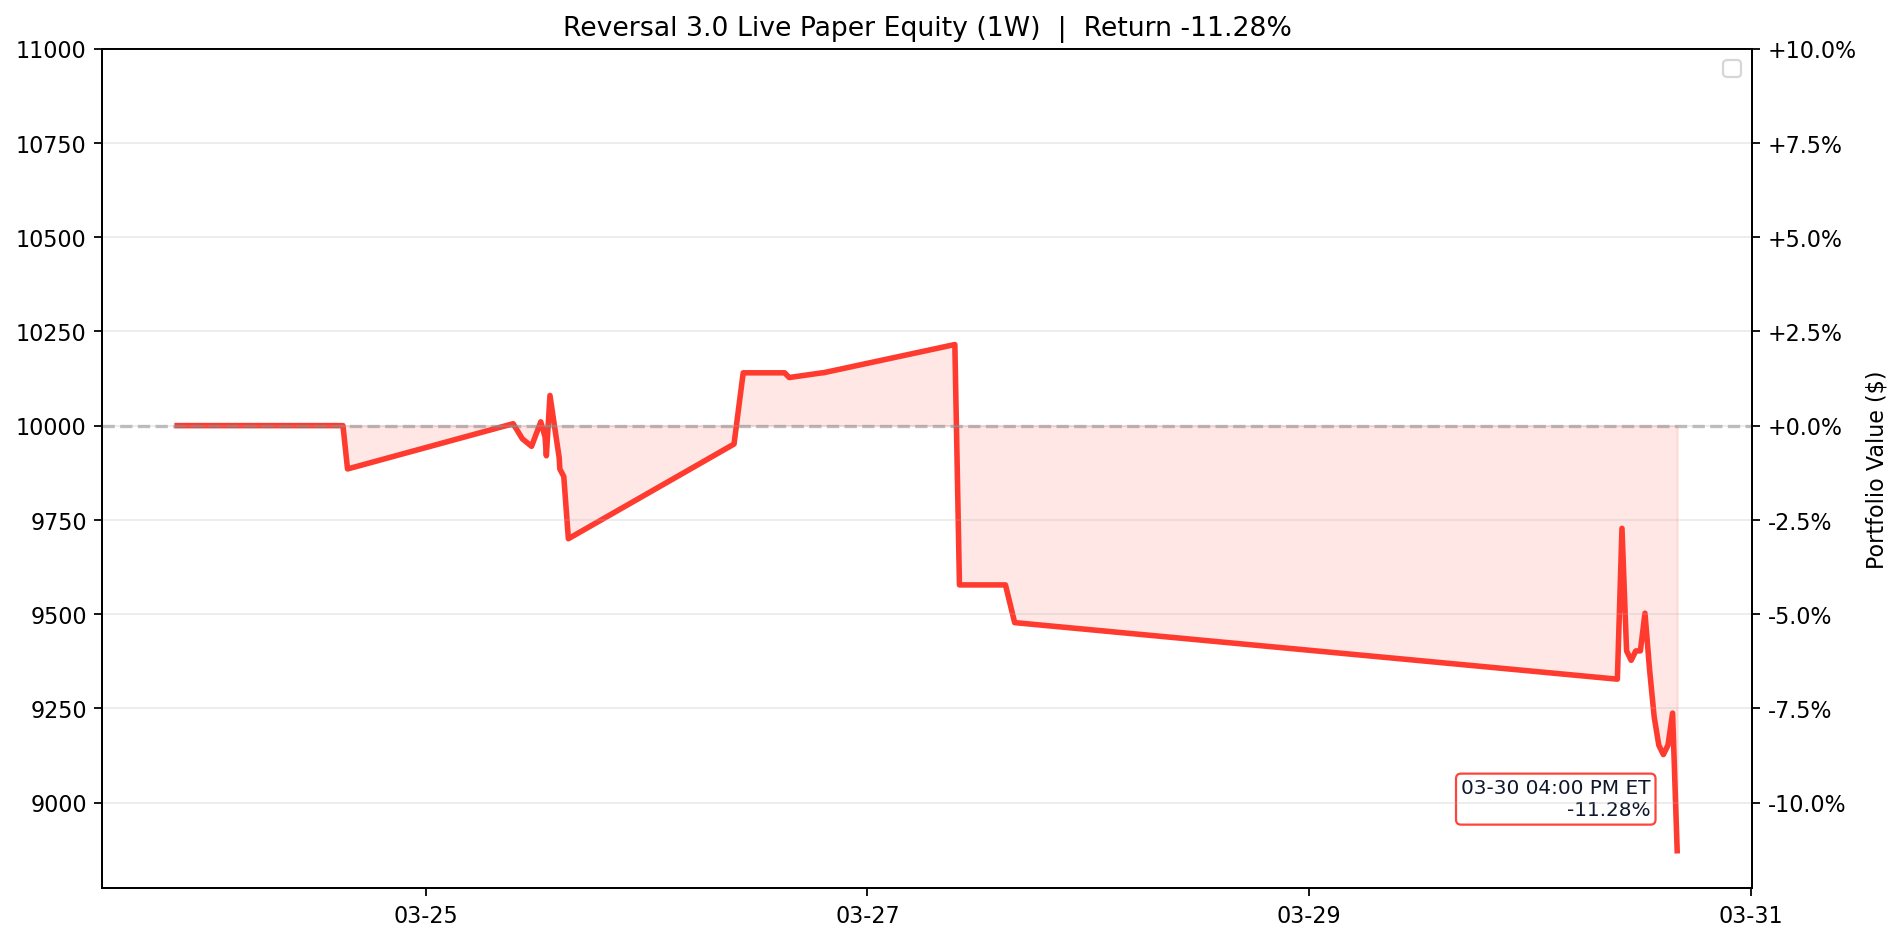
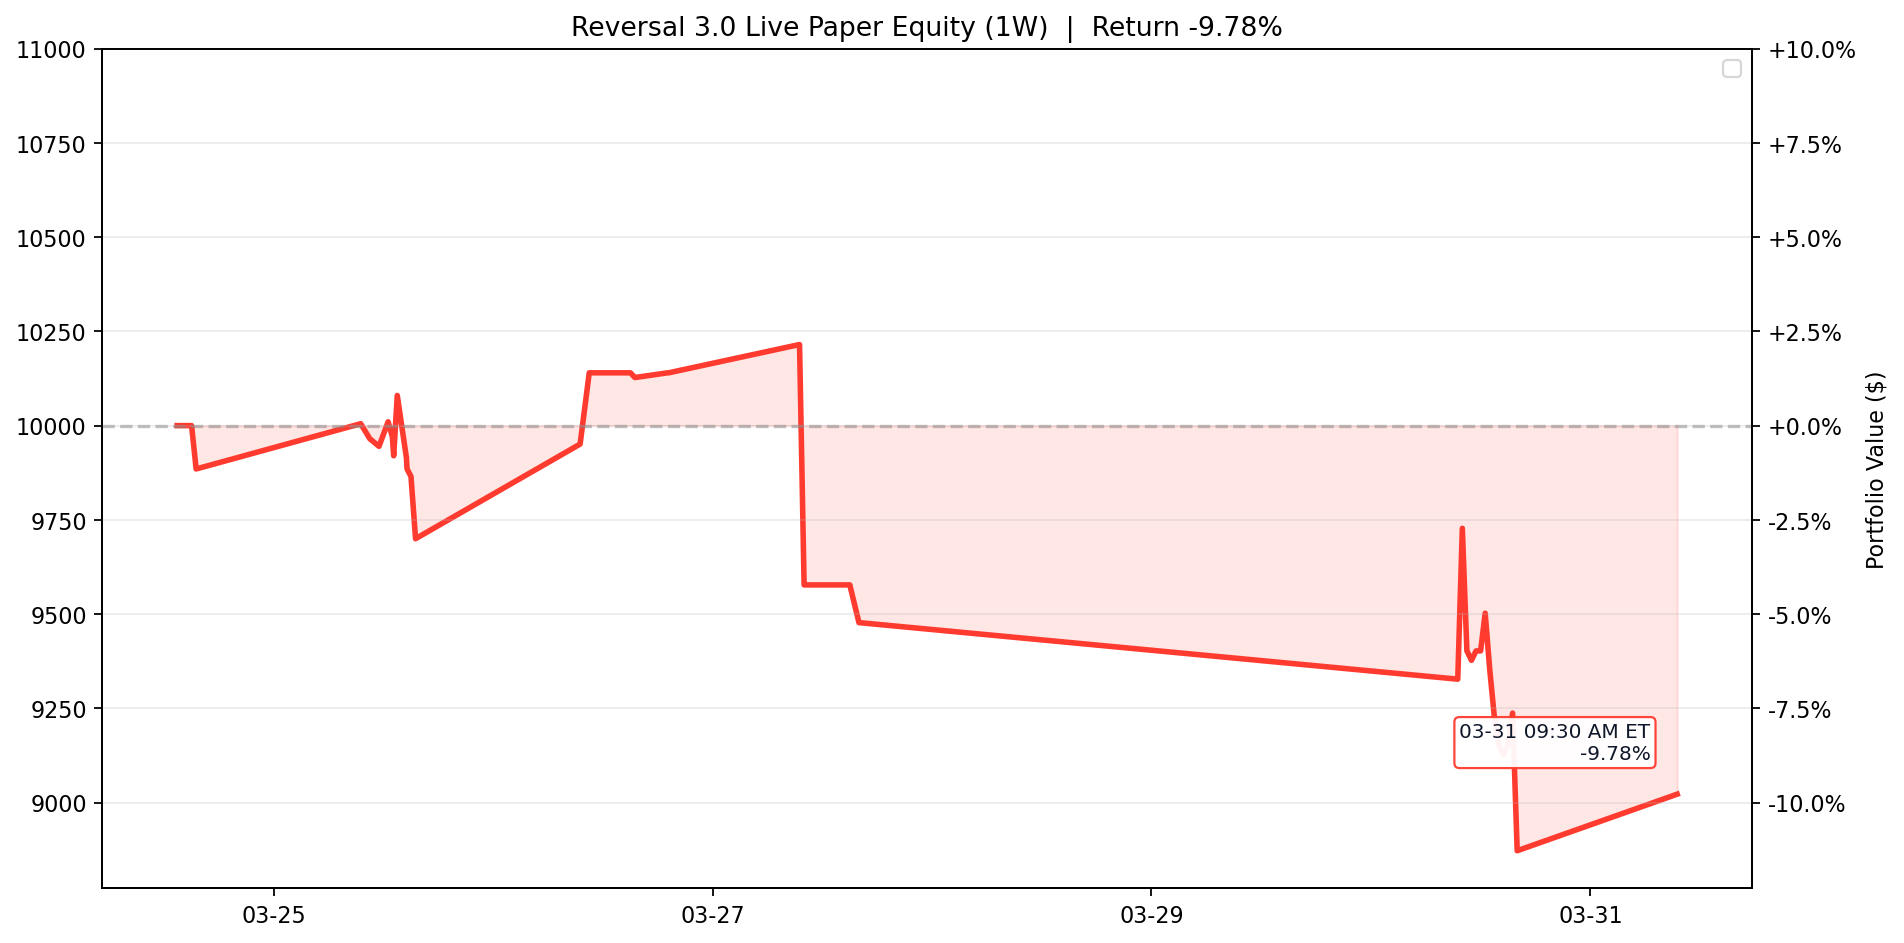
Update Reversal 3.0 live paper test 2026-03-31 09:30 ET

diff --git a/results/reversal_3_0_live/README.md b/results/reversal_3_0_live/README.md
@@ -1,7 +1,7 @@
 # Reversal 3.0 Live Paper Test
 
-Last updated (ET): `2026-03-30 16:00:01 EDT`
-Last processed slot: `manage_1600`
+Last updated (ET): `2026-03-31 09:30:05 EDT`
+Last processed slot: `manage_0930`
 
 ## Active Configuration
 
@@ -20,57 +20,54 @@ Last processed slot: `manage_1600`
 ## Portfolio Snapshot
 
 - Cash: `$5,527.50`
-- Equity: `$8,872.50`
+- Equity: `$9,022.50`
 - Realized PnL: `$-1,022.50`
-- Unrealized PnL: `$-105.00`
+- Unrealized PnL: `$45.00`
 - Open positions: `1`
 
 ## Open Positions
 
 ```text
 ticker     contract_symbol entry_trade_date  business_days_held  entry_option_price  current_option_price  entry_spot  current_spot  unrealized_pnl  unrealized_return_pct  success_rate  matched_signals  current_drop_pct  entry_iv_pct  current_iv_pct  rolling_sigma_20d_pct
-  FANG FANG260515C00200000       2026-03-30                   0                11.5                 11.15       198.7        198.65          -105.0                  -3.04         100.0               15              1.56         43.31           42.31                  24.78
+  FANG FANG260515C00200000       2026-03-30                   1                11.5                 11.65       198.7         199.6            45.0                    1.3         100.0               15              1.56         43.31             0.2                  24.78
 ```
 
-## Today's Closed Trades (2026-03-30)
+## Today's Closed Trades (2026-03-31)
 
-```text
-ticker    contract_symbol entry_trade_date_et exit_trade_date_et  entry_option_price  exit_option_price    pnl  return_pct           exit_reason
-   HON HON260501C00225000          2026-03-27         2026-03-30                 9.2                8.0 -600.0  -13.043478 stop_loss_hit_at_scan
-```
+_None_
 
 ## Current Screener Snapshot
 
 ```text
 ticker  success_rate_%  matched_signals  current_drop_%  target_rebound_$  target_price  rolling_sigma_20d_%  call_candidate
-  FANG          100.00               15            1.58              2.23        200.88                24.78            True
-  DXCM           93.18               44            0.56              0.25         62.14                32.07            True
-  INTC           91.67               12            4.55              1.37         42.54                64.48            True
-  NVDA           90.91               22            1.47              1.73        166.78                32.71            True
-  AVGO           88.89               18            2.43              5.11        298.49                39.28            True
-  PLTR           86.67               15            3.86              3.87        141.40                49.53            True
-  TSLA           86.36               22            1.89              4.78        359.78                35.33            True
-   STX           84.62               13            4.66             12.40        374.75                75.41            True
-  MCHP           84.62               13            3.13              1.36         61.42                36.06            True
-   AMD           81.82               22            2.87              4.05        200.25                56.13            True
-  MNST           80.00               30            0.71              0.36         71.68                27.35            True
-   TXN           80.00               15            2.05              2.74        189.16                29.79            True
+  ORLY           90.00               50            0.03              0.02         92.10                22.95           False
+   EXC           89.29               28            0.10              0.03         49.10                21.45           False
+   LIN           88.89               36            0.26              0.92        498.87                19.51           False
+  DDOG           88.64               44            0.12              0.09        115.77                54.67           False
+  TMUS           86.84               38            0.22              0.34        213.80                19.67           False
+   PEP           84.38               32            0.01              0.01        156.82                18.39           False
+  INTU           67.39               46            0.40              1.21        428.51                45.64           False
+   CEG           66.67                3            7.90             16.51        291.51                62.02           False
+  AAPL             NaN                0            0.00              0.00        248.56                16.49           False
+  ABNB             NaN                0            0.00              0.00        125.14                36.06           False
+  ADBE             NaN                0            0.00              0.00        241.81                42.52           False
+   ADI             NaN                0            0.00              0.00        308.98                32.39           False
 ```
 
 ## Recent Events
 
 ```text
                     timestamp_et         slot   event_type                                                                                                                                                                           detail
+2026-03-31T09:30:05.890178-04:00 data_refresh data_refresh                                                                                                                                                                    {'saved': 97}
 2026-03-30T16:00:01.901878-04:00  manage_1600         exit                                               {"contract_symbol": "HON260501C00225000", "pnl": -600.0, "reason": "stop_loss_hit_at_scan", "return_pct": -13.04, "ticker": "HON"}
 2026-03-30T15:00:04.861501-04:00   entry_1500        entry {"allocated_cash": 3450.0, "contract_symbol": "FANG260515C00200000", "contracts": 3, "entry_option_price": 11.5, "matched_signals": 15, "success_rate": 100.0, "ticker": "FANG"}
 2026-03-27T15:00:04.241996-04:00   entry_1500        entry    {"allocated_cash": 4600.0, "contract_symbol": "HON260501C00225000", "contracts": 5, "entry_option_price": 9.2, "matched_signals": 20, "success_rate": 100.0, "ticker": "HON"}
 2026-03-27T10:00:06.175720-04:00  manage_1000         exit                                             {"contract_symbol": "ABNB260515C00130000", "pnl": -562.5, "reason": "stop_loss_hit_at_scan", "return_pct": -11.42, "ticker": "ABNB"}
 2026-03-27T09:30:06.387888-04:00 data_refresh data_refresh                                                                                                                                                                    {'saved': 97}
 2026-03-26T15:00:01.983935-04:00   entry_1500        entry {"allocated_cash": 4925.0, "contract_symbol": "ABNB260515C00130000", "contracts": 5, "entry_option_price": 9.85, "matched_signals": 35, "success_rate": 94.29, "ticker": "ABNB"}
-2026-03-26T10:30:00.722036-04:00  manage_1030         exit                                                         {"contract_symbol": "AVGO260515C00320000", "pnl": -540.0, "reason": "stop_scan", "return_pct": -11.88, "ticker": "AVGO"}
 2026-03-26T10:30:00.722036-04:00  manage_1030         exit                                                        {"contract_symbol": "FANG260515C00195000", "pnl": 680.0, "reason": "tp_day1_scan", "return_pct": 13.93, "ticker": "FANG"}
+2026-03-26T10:30:00.722036-04:00  manage_1030         exit                                                         {"contract_symbol": "AVGO260515C00320000", "pnl": -540.0, "reason": "stop_scan", "return_pct": -11.88, "ticker": "AVGO"}
 2026-03-26T09:30:05.730919-04:00 data_refresh data_refresh                                                                                                                                                                    {'saved': 97}
-2026-03-25T15:00:03.353246-04:00   entry_1500        entry {"allocated_cash": 4880.0, "contract_symbol": "FANG260515C00195000", "contracts": 4, "entry_option_price": 12.2, "matched_signals": 25, "success_rate": 100.0, "ticker": "FANG"}
 ```
 
 ## Equity Curve (1W)

diff --git a/README.md b/README.md
@@ -3,15 +3,15 @@
 <!-- reversal-3.0-live:start -->
 ## Reversal 3.0 Live Paper Test
 
-- Last updated (ET): `2026-03-30 16:00:01 EDT`
-- Equity: `$8,872.50` | Realized: `$-1,022.50` | Unrealized: `$-105.00` | Open positions: `1`
-- Today closed trades: `1`
-- Current slot: `manage_1600`
+- Last updated (ET): `2026-03-31 09:30:05 EDT`
+- Equity: `$9,022.50` | Realized: `$-1,022.50` | Unrealized: `$45.00` | Open positions: `1`
+- Today closed trades: `0`
+- Current slot: `manage_0930`
 - Chart: trailing `1W` with ET timestamps
 
 ```text
 ticker     contract_symbol  current_option_price  unrealized_pnl  unrealized_return_pct  business_days_held
-  FANG FANG260515C00200000                 11.15          -105.0                  -3.04                   0
+  FANG FANG260515C00200000                 11.65            45.0                    1.3                   1
 ```
 
 ![Reversal 3.0 Live Equity 1W](assets/reversal_3_0_live_equity.png)
